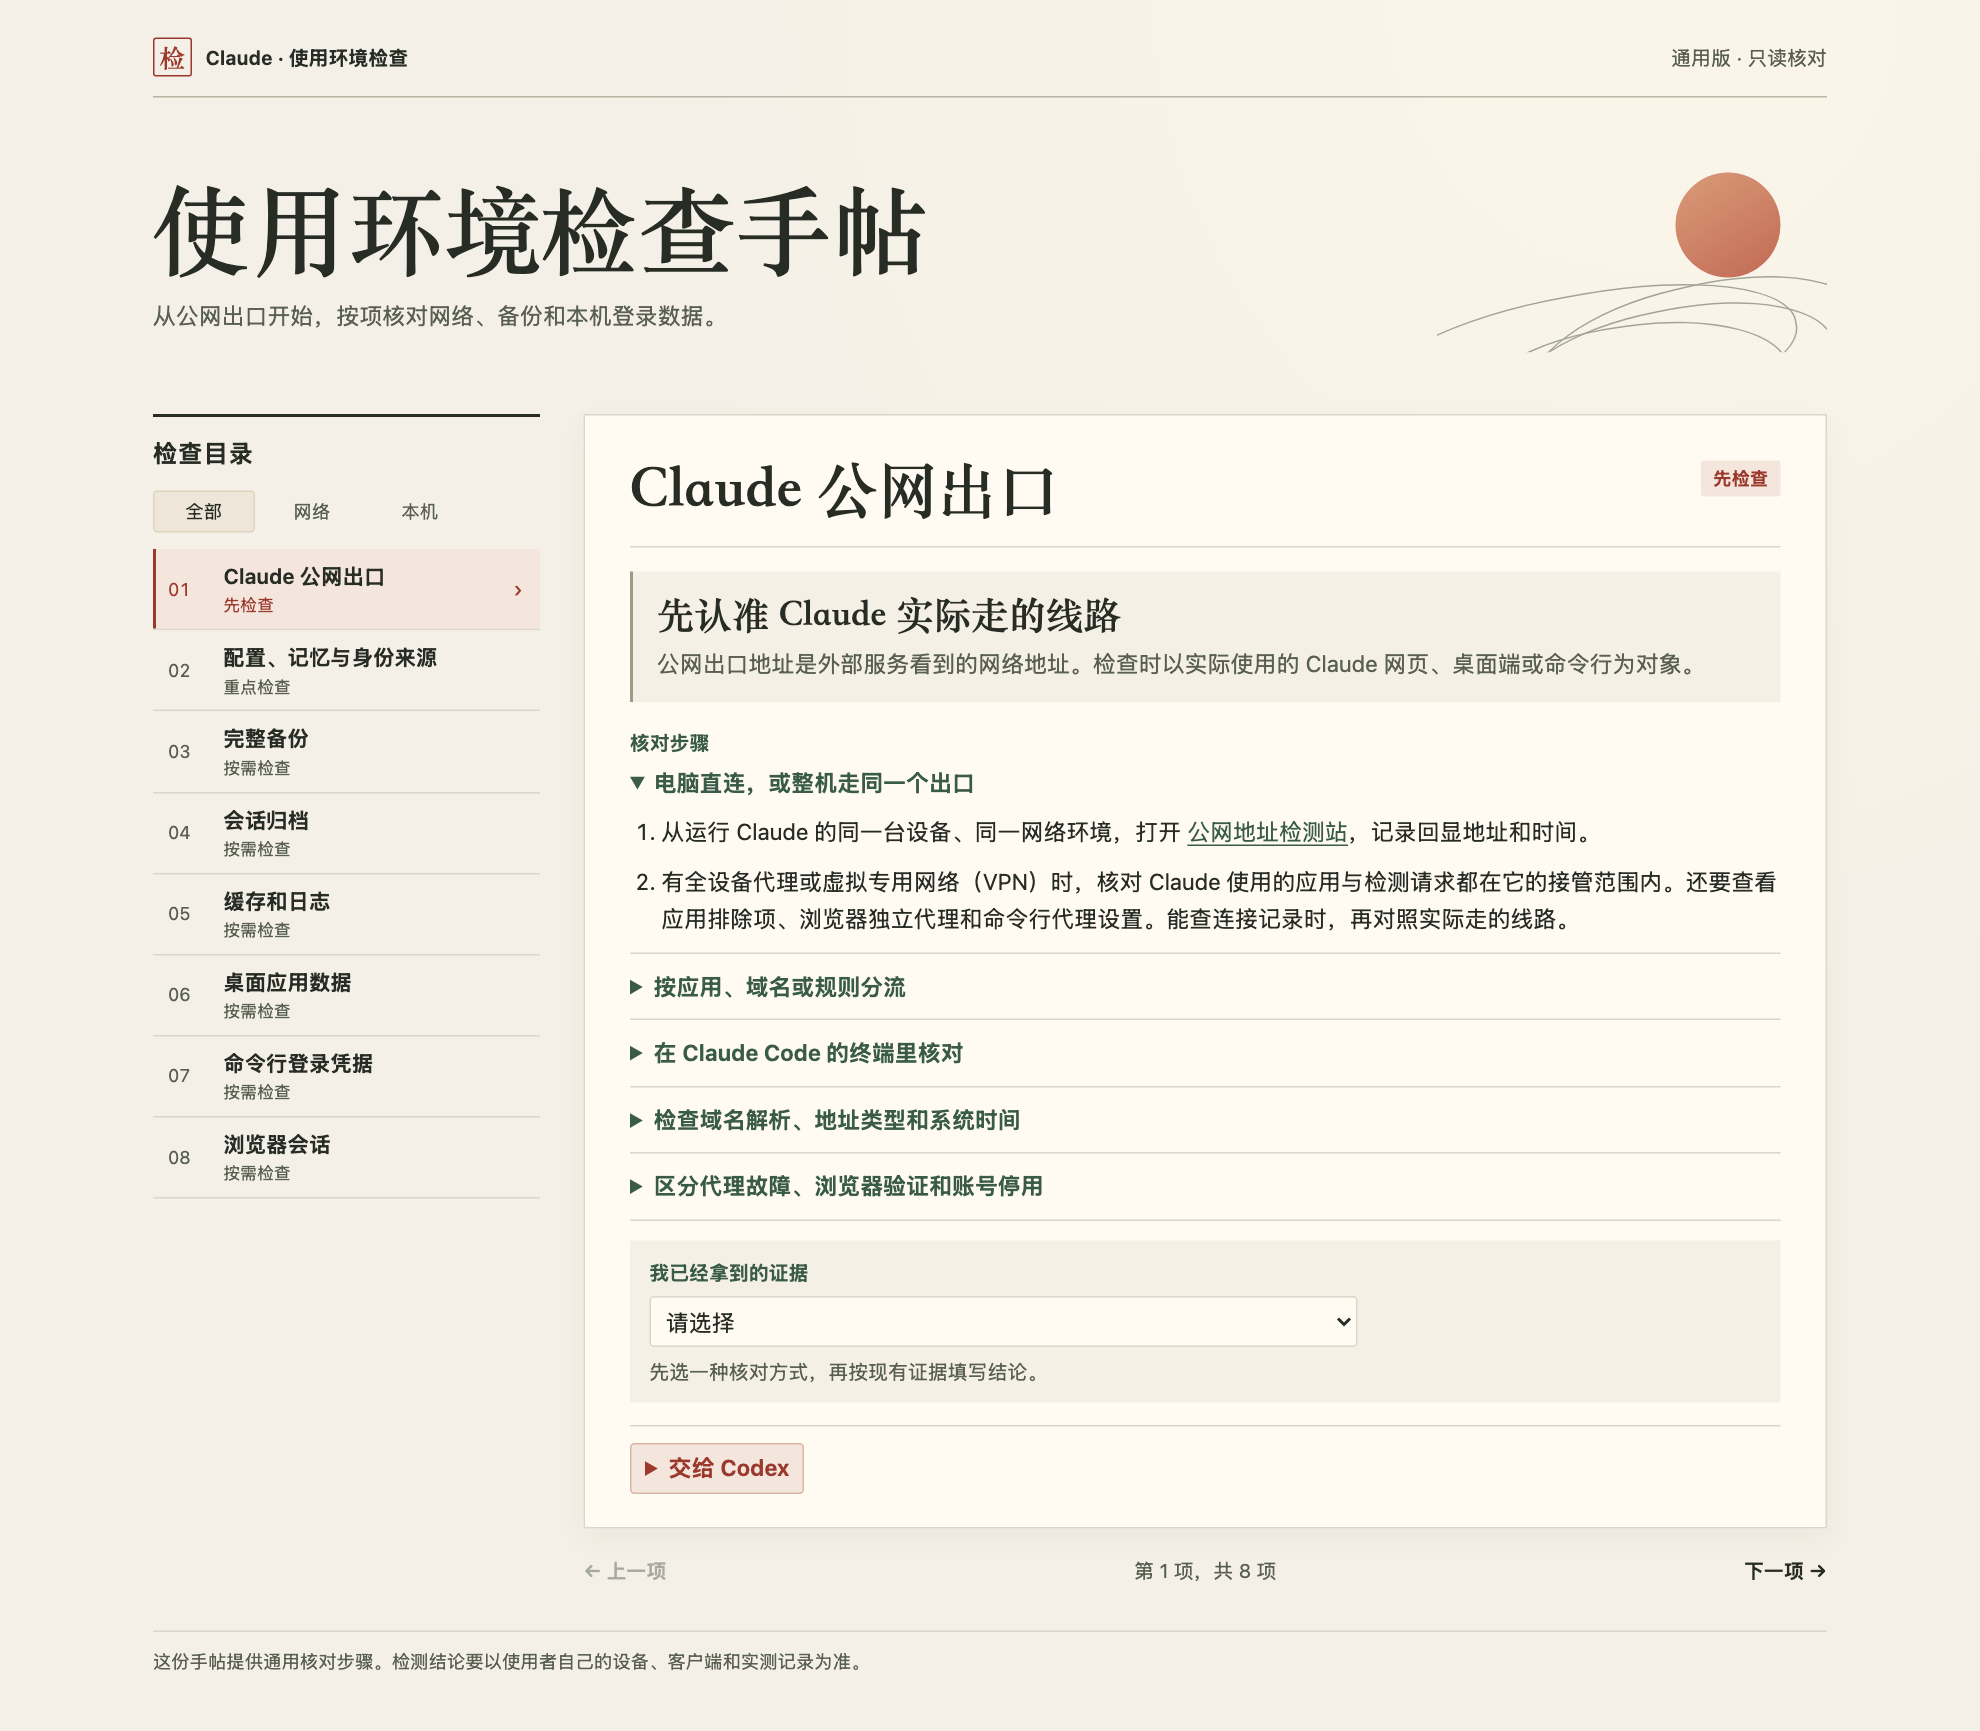
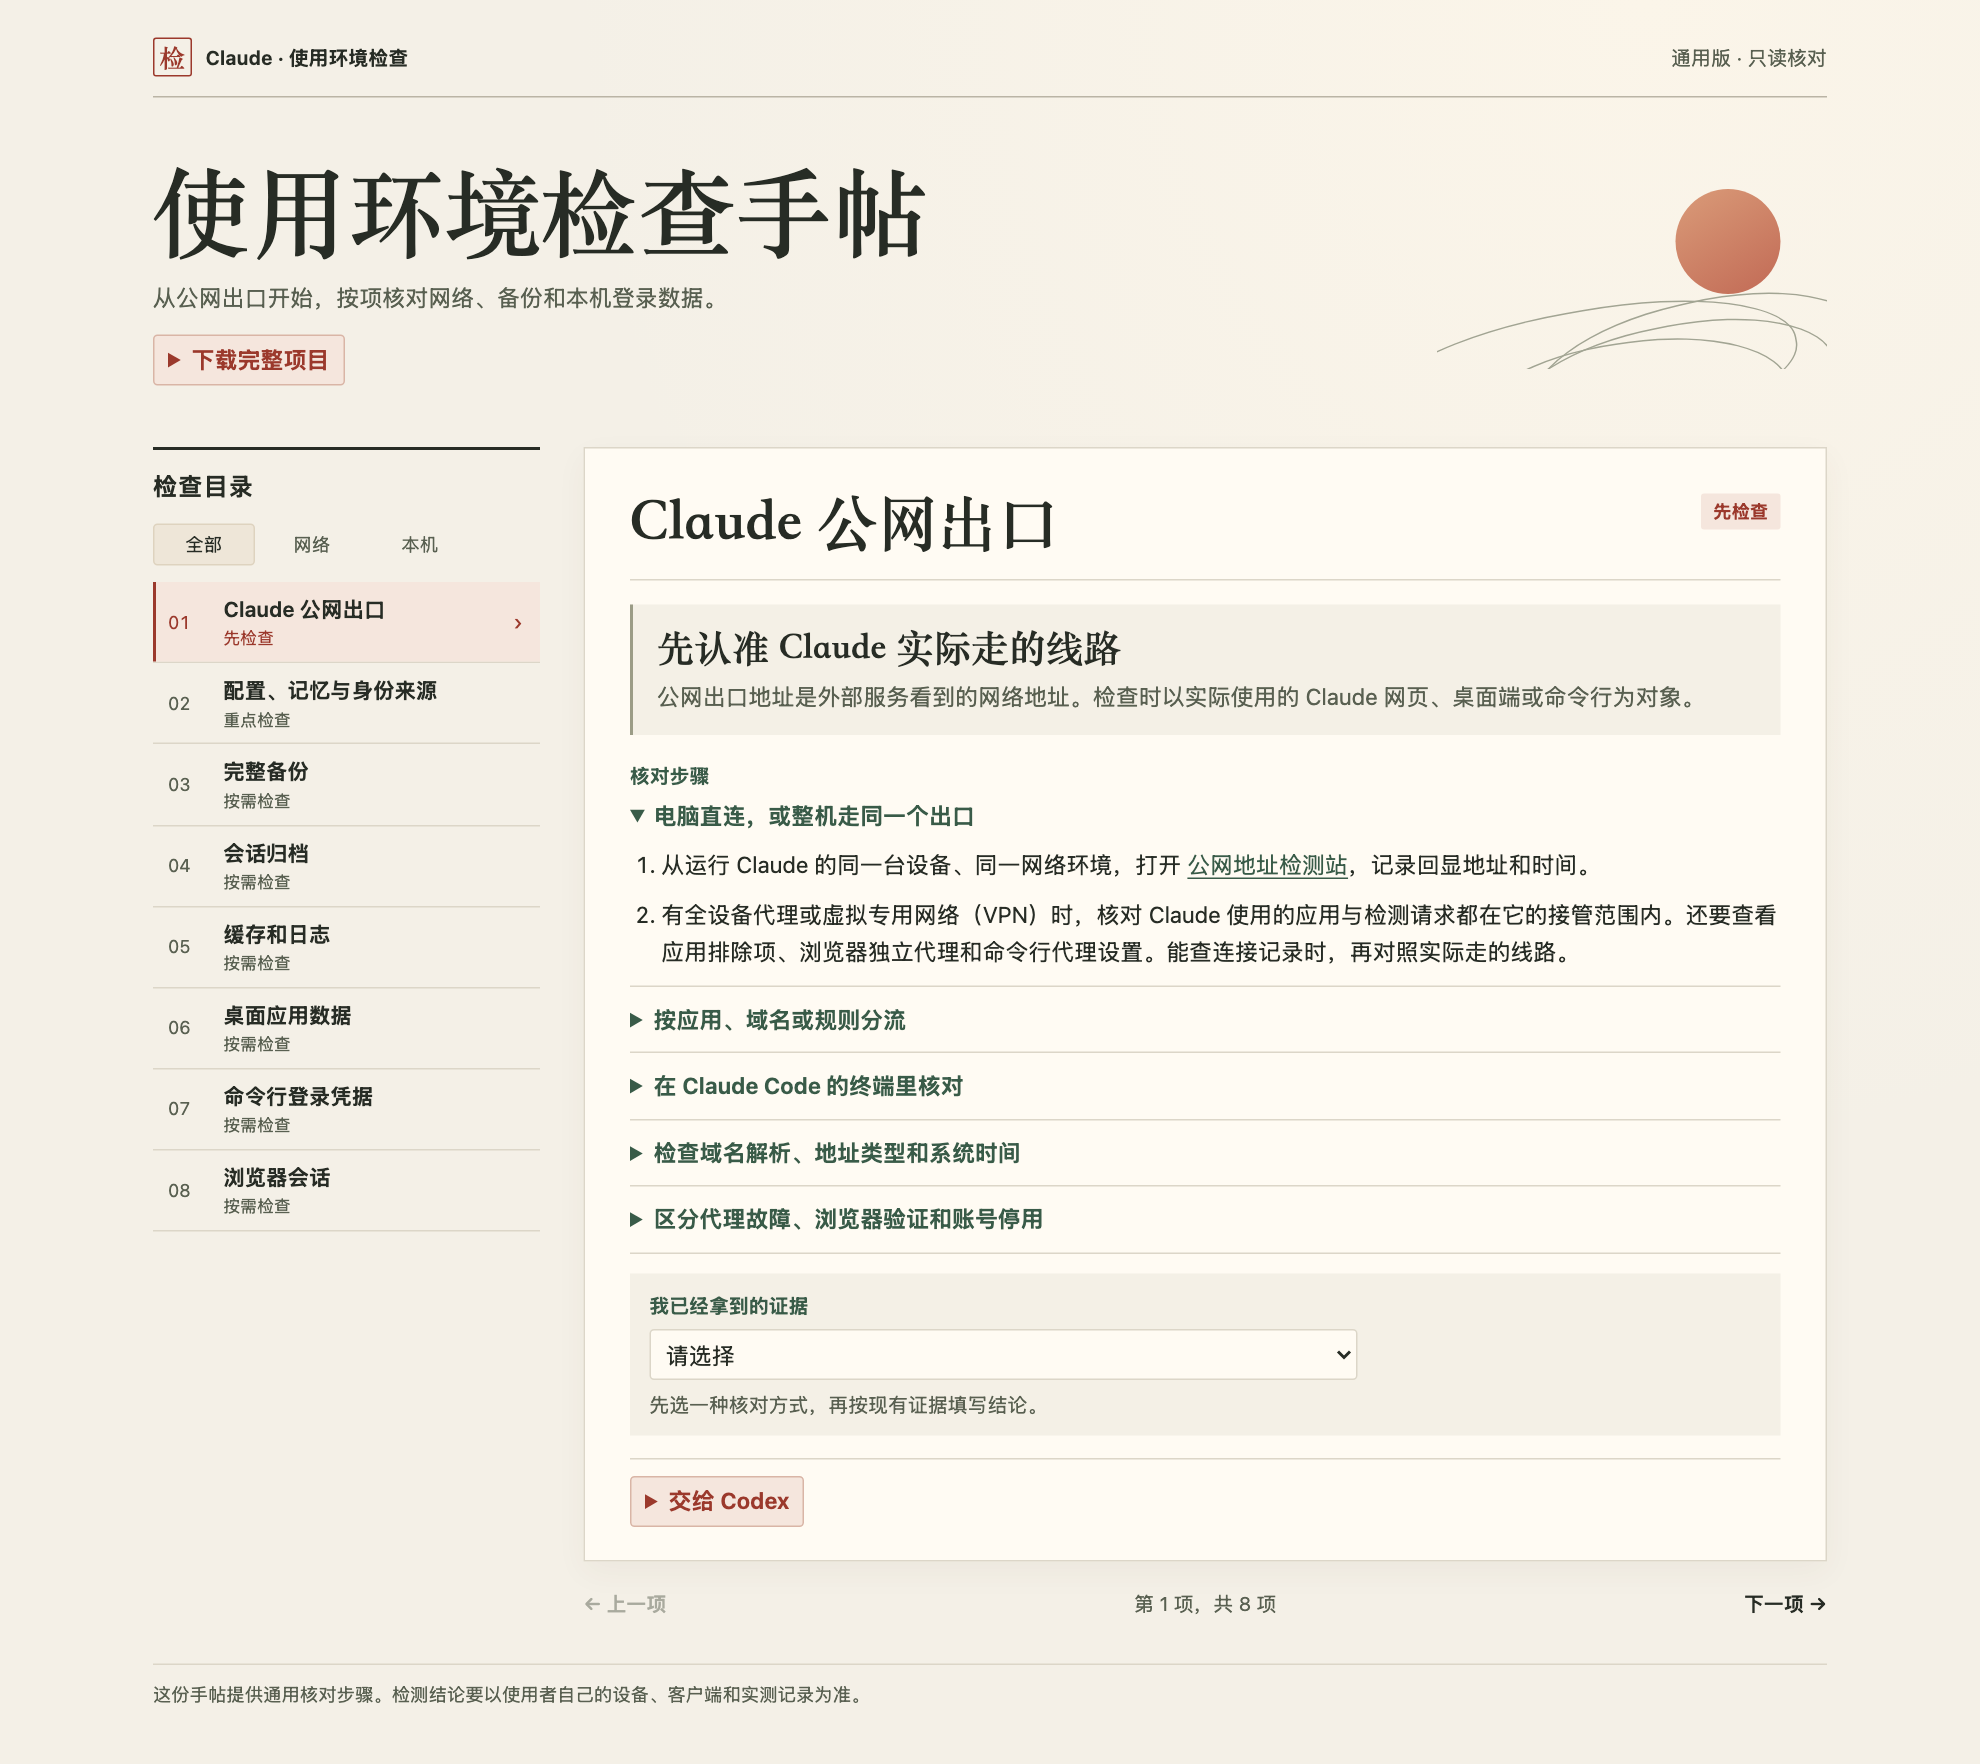
Start with downloading the complete checklist

diff --git a/index.html b/index.html
@@ -71,6 +71,8 @@ h1, h2, h3, p { margin: 0; }
   letter-spacing: .012em;
 }
 .hero p { margin-top: 10px; color: var(--muted); }
+.project-download { margin-top: 12px; }
+.project-download .copy-command { margin-top: 8px; }
 .hero-art { width: 100%; height: 132px; overflow: hidden; position: relative; }
 .sun {
   width: 70px; height: 70px; border-radius: 50%;
@@ -146,14 +148,14 @@ details { margin: 0; }
 details + details { margin-top: 6px; }
 summary { display: list-item; cursor: pointer; width: fit-content; color: var(--moss); font-weight: 650; }
 summary:hover { color: var(--verm); }
-.codex-action summary {
+.project-download summary, .codex-action summary {
   border: 1px solid #d9b5a6;
   border-radius: 3px;
   padding: 3px 9px;
   background: var(--verm-soft);
   color: var(--verm);
 }
-.codex-prompt { margin: 7px 0; padding: 10px 12px; background: #f4f0e6; overflow-wrap: anywhere; }
+.codex-prompt { margin: 7px 0; padding: 10px 12px; background: #f4f0e6; white-space: pre-line; overflow-wrap: anywhere; }
 .copy-command {
   background: var(--verm); border: 1px solid var(--verm); border-radius: 3px;
   color: #fffaf4; padding: 4px 10px; cursor: pointer; font-size: 13px;
@@ -245,6 +247,14 @@ footer { margin-top: 25px; border-top: 1px solid var(--line); padding-top: 10px;
     <div>
       <h1>使用环境检查手帖</h1>
       <p>从公网出口开始，按项核对网络、备份和本机登录数据。</p>
+      <details class="project-download">
+        <summary>下载完整项目</summary>
+        <p>在终端运行克隆命令。项目包含本地手帖、Codex 技能和只读脚本。</p>
+        <pre><code class="clone-command">git clone https://github.com/huangserva/claude-environment-checklist.git</code></pre>
+        <button class="copy-command" type="button" hidden>复制下载命令</button>
+        <span class="copy-status" role="status"></span>
+        <p>下载后，双击文件夹中的 <code>index.html</code>，选择一项检查，再按页面执行。</p>
+      </details>
     </div>
     <div class="hero-art" aria-hidden="true"><span class="sun"></span><span class="ridges"><span></span><span></span><span></span><span></span></span></div>
   </div>
@@ -389,13 +399,12 @@ curl.exe -q --max-time 10 --fail --silent --show-error https://ping0.cc/</code><
         </div>
         <div class="todo">
           <h3>一条命令运行整合审计</h3>
-          <p>下载下方这一个文件，保存到下载目录。打开终端，进入 Claude 实际工作的项目。macOS 会同时运行原版 <code>claude-cleanup</code> 的只读审计和本手帖的配置、记忆及外接工具检查。只需本机有 Python 3。</p>
-          <p class="sources"><a href="audit_context.py" download>下载整合版只读脚本</a></p>
+          <p>从下载得到的项目文件夹打开终端，使用里面的 <code>audit_context.py</code>。把示例路径换成 Claude 实际工作的目录。macOS 会同时运行原版 <code>claude-cleanup</code> 的只读审计和本手帖的配置、记忆及外接工具检查。只需本机有 Python 3。</p>
           <p>macOS 或 Linux</p>
-          <pre><code>python3 -B "$HOME/Downloads/audit_context.py"</code></pre>
+          <pre><code>python3 -B audit_context.py --project "/Claude实际工作的项目目录"</code></pre>
           <p>Windows 的 PowerShell</p>
-          <pre><code>py -3 -B "$HOME\Downloads\audit_context.py"</code></pre>
-          <p class="check-note"><code>-B</code> 让 Python 不生成字节码缓存。Windows 与 Linux 会执行配置检查，原版的 macOS 审计标为「不适用」。脚本只在终端报告发现。它没有清理入口。</p>
+          <pre><code>py -3 -B audit_context.py --project "C:\Claude实际工作的项目目录"</code></pre>
+          <p class="check-note"><code>-B</code> 禁止 Python 写入字节码缓存，<code>--project</code> 指定要检查的项目。Windows 的 <code>-3</code> 指定 Python 3。Windows 与 Linux 会执行配置检查，原版的 macOS 审计标为「不适用」。脚本只在终端报告发现。</p>
           <details>
             <summary>如何读检测结果</summary>
             <p>「启动候选」表示路径或配置可能使文件在启动时载入。「按条件」表示与项目、路径、插件或会话状态相关。「已配置」表示找到了设置或工具声明。「仅留存」表示发现历史、本机凭据文件或备份。「未核验」表示静态文件无法确认的会话、账号或访问范围。</p>
@@ -452,7 +461,7 @@ curl.exe -q --max-time 10 --fail --silent --show-error https://ping0.cc/</code><
         </div>
         <div class="details-stack">
           <details class="codex-action">
-            <summary>交给 Codex 做完整只读核对</summary>
+            <summary>交给 Codex</summary>
             <p class="codex-prompt">只读核对 Claude 能得知我身份和偏好的来源。先确认实际工作目录、Claude 客户端、用户级配置目录和启动方式，再查各级指令文件、规则与引用、自动记忆、全局状态和历史备份、项目首条提示词、外部记忆工具各级配置、插件及启动钩子。网页或桌面账号侧核对个人指令、记忆与项目知识。按来源报告已加载、按条件加载、可调用、仅发现留存或未核验；只输出路径类别、字段名和计数，保留当前会话、配置与记忆。不要重启 Claude 或调用外部记忆库来测试。</p>
             <button class="copy-command" type="button" hidden>复制给 Codex</button>
             <span class="copy-status" role="status"></span>
@@ -498,7 +507,7 @@ curl.exe -q --max-time 10 --fail --silent --show-error https://ping0.cc/</code><
         <div class="details-stack">
           <details class="codex-action">
             <summary>交给 Codex</summary>
-            <p class="codex-prompt">帮我确认 Claude 本地会话的位置，核对要保留的会话。如果我指定了项目或会话，导出到新目录，再逐文件校验并返回路径。</p>
+            <p class="codex-prompt">只读确认 Claude 本地会话的位置，核对要保留的会话。等我另行要求导出时，再复制到新目录、逐文件校验并返回路径。</p>
             <button class="copy-command" type="button" hidden>复制给 Codex</button>
             <span class="copy-status" role="status"></span>
           </details>
@@ -735,19 +744,31 @@ curl.exe -q --max-time 10 --fail --silent --show-error https://ping0.cc/</code><
   window.addEventListener('hashchange', syncLocation);
   window.addEventListener('popstate', syncLocation);
 
-  for (const action of document.querySelectorAll('.codex-action')) {
-    const button = action.querySelector('.copy-command');
-    const prompt = action.querySelector('.codex-prompt');
-    const status = action.querySelector('.copy-status');
+  function enableCopy(container, source, destination) {
+    const button = container.querySelector('.copy-command');
+    const status = container.querySelector('.copy-status');
     button.hidden = false;
     button.addEventListener('click', async () => {
       try {
-        await navigator.clipboard.writeText(prompt.textContent.trim());
-        status.textContent = '已复制。粘贴到 Codex 聊天即可。';
+        await navigator.clipboard.writeText(source.textContent.trim());
+        status.textContent = '已复制。请粘贴到' + destination + '。';
       } catch {
-        status.textContent = '请选中上方指令，手动复制到 Codex。';
+        status.textContent = '请选中上方文字，手动复制到' + destination + '。';
       }
     });
+  }
+
+  const projectDownload = document.querySelector('.project-download');
+  enableCopy(projectDownload, projectDownload.querySelector('.clone-command'), '终端');
+
+  for (const action of document.querySelectorAll('.codex-action')) {
+    const prompt = action.querySelector('.codex-prompt');
+    const section = action.closest('.sheet').id;
+    const entry = '先确认当前 Codex 项目已加载仓库技能 $claude-environment-checklist。'
+      + '如果还没有加载，请先告诉我如何克隆仓库并在 Codex 中打开，等技能加载后再读取本机数据。'
+      + '技能已加载时，先打开下载项目中的 index.html#' + section + '，再执行下面的只读核对。';
+    prompt.textContent = entry + '\n\n' + prompt.textContent.trim();
+    enableCopy(action, prompt, 'Codex 对话');
   }
 
   const evidenceCheck = document.querySelector('.evidence-check');

diff --git a/.agents/skills/claude-environment-checklist/SKILL.md b/.agents/skills/claude-environment-checklist/SKILL.md
@@ -1,19 +1,19 @@
 ---
 name: claude-environment-checklist
-description: 使用本项目排查 Claude 环境时，先打开网页手帖，再按用户选定的条目做只读核对。适用于排查 Claude 的公网出口、配置、记忆、外接工具、会话或浏览器网站数据。
+description: 使用本项目排查 Claude 环境时，先打开下载项目里的网页手帖，再按用户选定的条目做只读核对。适用于排查 Claude 的公网出口、配置、记忆、外接工具、会话或浏览器网站数据。
 ---
 
 # Claude 使用环境检查手帖
 
 ## 打开网页
 
-把打开[在线手帖](https://huangserva.github.io/claude-environment-checklist/)作为第一步。只调用技能、提供手帖链接或泛泛说「帮我检查一下」时，打开首页，让用户选择检查项。提到具体问题时，打开对应条目。只有用户明确要求执行一项或多项检查时，才在打开网页后按指定范围开始只读检查。
+以本技能文件的位置为基准，先用浏览器打开下载项目里的 [index.html](../../../index.html)。只调用技能、提供手帖链接或泛泛说「帮我检查一下」时，打开首页，让用户选择检查项。提到具体问题时，在本地网页地址后附上对应条目标识。只有用户明确要求执行一项或多项检查时，才在打开网页后按指定范围开始只读检查。
 
 - 网络线路和公网出口 → [Claude 公网出口](https://huangserva.github.io/claude-environment-checklist/#network-egress)。
 - 用户身份、记忆、指令文件和外接工具 → [配置、记忆与身份来源](https://huangserva.github.io/claude-environment-checklist/#identity-context)。
 - 浏览器登录数据 → [浏览器会话](https://huangserva.github.io/claude-environment-checklist/#browser-data)。
 
-在线手帖无法加载时，打开仓库里的 [index.html](../../../index.html)。当前环境无法控制浏览器时，直接把对应链接交给用户。报告页面是否已打开，以工具实际结果为准。
+浏览器无法打开本地文件时，打开[在线手帖](https://huangserva.github.io/claude-environment-checklist/)的对应页面。当前环境无法操作浏览器时，告诉用户在下载文件夹里双击 `index.html` 或给出对应的线上链接。报告页面是否已打开，以工具实际结果为准。
 
 ## 运行本机只读审计
 

diff --git a/AGENTS.md b/AGENTS.md
@@ -3,3 +3,5 @@
 用户要用这个仓库检查 Claude 的使用环境时，先读取并按仓库的 [Codex 技能](.agents/skills/claude-environment-checklist/SKILL.md) 操作。
 
 用户只说「帮我检查一下」、贴手帖链接或问怎么开始时，先打开手帖首页，有具体问题就打开对应条目，并标出下一步从哪里开始。实际读取本机数据或执行检查命令前，先让用户选定要执行的检查。用户已经明确指定检查并要求执行时，先打开对应条目，再按请求范围进行只读检查。
+
+用户问是否要下载时，说明本项目的使用顺序是克隆完整仓库、打开下载里的 `index.html`、选择条目后按页面执行。使用 Codex 协助时，在 Codex 中打开下载的目录再调用技能。线上网页可预览手帖。
